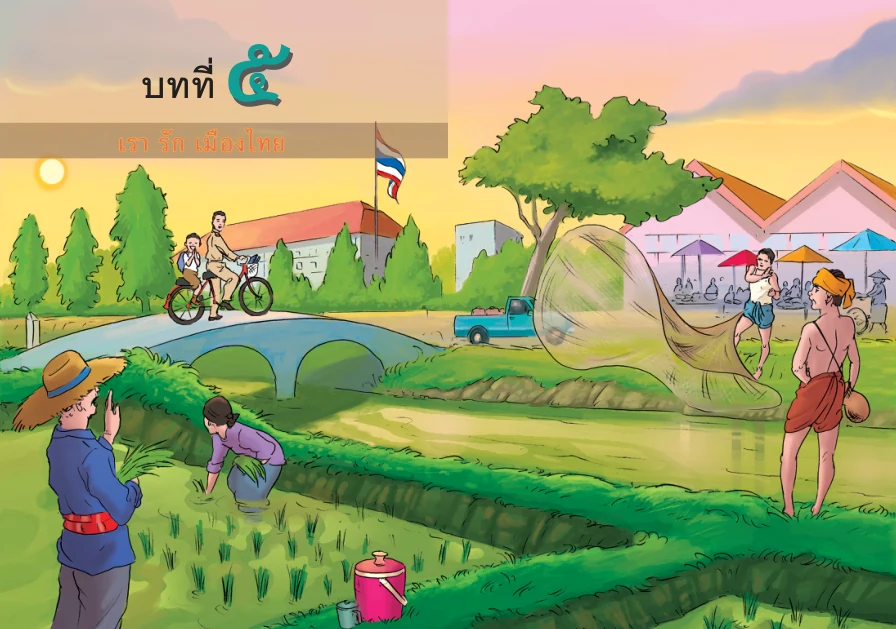
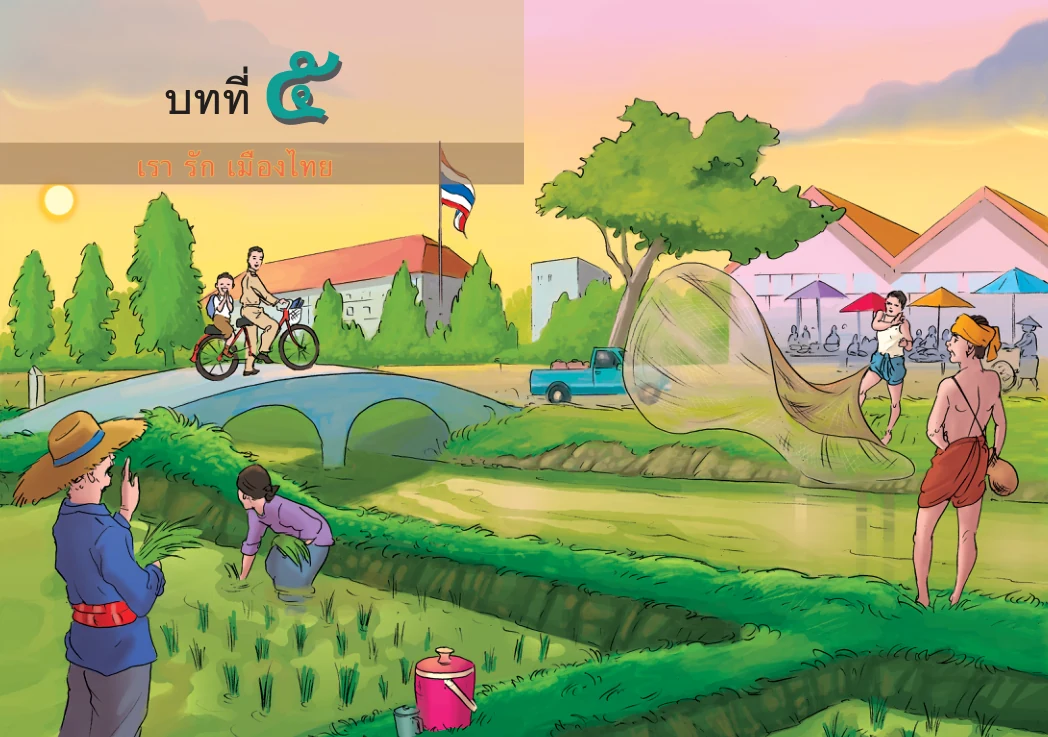
Add shared five-level reading speed and eliminate cover hairline gaps

diff --git a/P1/index.html b/P1/index.html
@@ -14,8 +14,8 @@
   <link rel="stylesheet" href="/is/P1/child-ui.css?v=20260924-1">
   <script src="/is/P1/child-ui.js?v=20260925-preparation-1" defer></script>
   <link rel="stylesheet" href="unit1-prototype.css?v=20260924-allchapters-1">
-  <link rel="stylesheet" href="literature/pairs.css?v=3">
-<script src="course-flow.js?v=20260925-flow-2"></script></head>
+  <link rel="stylesheet" href="literature/pairs.css?v=4">
+<script src="course-flow.js?v=20260925-flow-2"></script><link rel="stylesheet" href="reading-speed.css?v=1"><script src="reading-speed.js?v=1"></script></head>
 <body>
   <div id="preloadScreen" class="preload-screen preload-complete" role="status" aria-live="polite" aria-busy="false" hidden>
     <div class="preload-card"><div class="preload-logo" aria-hidden="true">ก</div><p class="preload-eyebrow">เพลินภาษา ป.1</p><h1>กำลังเตรียมบทเรียน</h1><p id="preloadStatus">กำลังตรวจสอบไฟล์สำหรับการเรียน...</p><div class="preload-track" aria-hidden="true"><span id="preloadBar"></span></div><strong id="preloadPercent">0%</strong><button id="retryPreload" type="button" hidden>ลองโหลดอีกครั้ง</button></div>
@@ -56,14 +56,14 @@
         <article class="unit-card featured" style="--accent:#58a6d8"><div class="unit-number">01</div><a class="unit-cover" href="lesson.html?unit=1" aria-label="เปิดบท ใบโบก ใบบัว"><img src="book/unit1-cover.webp" alt="ภาพปกคู่บทที่ 1 ใบโบก ใบบัว" loading="lazy"></a><div class="unit-content"><span class="unit-status ready">พร้อมใช้งาน</span><h3>ใบโบก ใบบัว</h3><p>ปูพื้นพยัญชนะไทย บัตรคำ ฟังเรื่อง จับคู่คำกับภาพ และเกมตรวจความเข้าใจ</p><div class="lesson-row"><span>แผนที่ 1</span><strong>รู้จักคำ นำเรื่อง</strong><div class="lesson-actions"><a href="lesson.html?unit=1">เข้าเรียน →</a></div></div></div><div class="workbook-pair"><a href="workbook/?unit=1"><img src="workbook/assets/volume-1.webp" alt="ปกแบบฝึกเล่ม 1" loading="lazy"><span>แบบฝึกเล่ม 1 · บทที่ 1</span></a></div></article>
         <article class="unit-card featured" style="--accent:#6854d9"><div class="unit-number">02</div><a class="unit-cover" href="lesson.html?unit=2" aria-label="เปิดบท ภูผา"><img src="book/unit2-cover.webp" alt="ภาพปกคู่บทที่ 2 ภูผา" loading="lazy"></a><div class="unit-content"><span class="unit-status ready">พร้อมใช้งาน</span><h3>ภูผา</h3><p>รู้จักคำ นำเรื่อง ผ่านเพลง เกมทายภาพ บิงโก และขบวนรถไฟประโยค</p><div class="lesson-row"><span>แผนที่ 1</span><strong>รู้จักคำ นำเรื่อง</strong><div class="lesson-actions"><a class="plan-link" href="plan/02/แผนที่1.docx" download>📄 แผนการสอน</a><a href="lesson.html?unit=2">เข้าเรียน →</a></div></div></div><div class="workbook-pair"><a href="workbook/?unit=2"><img src="workbook/assets/volume-1.webp" alt="ปกแบบฝึกเล่ม 1" loading="lazy"><span>แบบฝึกเล่ม 1 · บทที่ 2</span></a></div></article>
         <article class="unit-card ready-card" style="--accent:#ed8d70"><div class="unit-number">03</div><a class="unit-cover" href="lesson.html?unit=3" aria-label="เปิดบท เพื่อนกัน"><img src="book/unit3-cover.webp" alt="ภาพปกคู่บทที่ 3 เพื่อนกัน" loading="lazy"></a><div class="unit-content"><span class="unit-status ready">พร้อมใช้งาน</span><h3>เพื่อนกัน</h3><p>คำจากบท: ไก่ ลูกช้าง ชู จ้อง ร้อง เรียก เพื่อน เด็ก และฝึกสระ เอ–แอ</p><div class="lesson-row"><span>แผนที่ 1</span><strong>รู้จักคำ นำเรื่อง</strong><div class="lesson-actions"><a href="lesson.html?unit=3">เข้าเรียน →</a></div></div></div><div class="workbook-pair"><a href="workbook/?unit=3"><img src="workbook/assets/volume-1.webp" alt="ปกแบบฝึกเล่ม 1" loading="lazy"><span>แบบฝึกเล่ม 1 · บทที่ 3</span></a></div></article>
-        <article class="unit-card ready-card" style="--accent:#36a489"><div class="unit-number">04</div><a class="unit-cover" href="lesson.html?unit=4" aria-label="เปิดบท ตามหา"><img src="book/unit4-cover.webp" alt="ภาพปกคู่บทที่ 4 ตามหา" loading="lazy"></a><div class="unit-content"><span class="unit-status ready">พร้อมใช้งาน</span><h3>ตามหา</h3><p>คำจากบท: คอ ผูก ลาน อ้อย เล่นน้ำ ลำธาร กระดิ่ง กระพรวน และฝึกสระ โอ–ไอ–ใอ</p><div class="lesson-row"><span>แผนที่ 1</span><strong>รู้จักคำ นำเรื่อง</strong><div class="lesson-actions"><a href="lesson.html?unit=4">เข้าเรียน →</a></div></div></div><div class="literature-pair"><a href="literature/?chapter=1"><img src="literature/assets/cover-1.webp?v=2" alt="ปกคู่บทวรรณคดีลำนำ" loading="lazy">📖 วรรณคดีลำนำ 1 · เจ้าเนื้ออ่อน เอย</a></div><div class="workbook-pair"><a href="workbook/?unit=4"><img src="workbook/assets/volume-1.webp" alt="ปกแบบฝึกเล่ม 1" loading="lazy"><span>แบบฝึกเล่ม 1 · บทที่ 4</span></a></div></article>
-        <article class="unit-card ready-card" style="--accent:#e4aa32"><div class="unit-number">05</div><a class="unit-cover" href="lesson.html?unit=5" aria-label="เปิดบท ไปโรงเรียน"><img src="book/unit5-cover.webp" alt="ภาพปกคู่บทที่ 5 ไปโรงเรียน" loading="lazy"></a><div class="unit-content"><span class="unit-status ready">พร้อมใช้งาน</span><h3>ไปโรงเรียน</h3><p>คำจากบท: เข้า หิ้ว เรียน ปิ่นโต กระเป๋า โรงเรียน หนังสือ โบกมือ และฝึกสระ อือ</p><div class="lesson-row"><span>แผนที่ 1</span><strong>รู้จักคำ นำเรื่อง</strong><div class="lesson-actions"><a href="lesson.html?unit=5">เข้าเรียน →</a></div></div></div><div class="literature-pair"><a href="literature/?chapter=2"><img src="literature/assets/cover-2.webp?v=2" alt="ปกคู่บทวรรณคดีลำนำ" loading="lazy">📖 วรรณคดีลำนำ 2 · มา เล่น กัน ไหม</a></div><div class="workbook-pair"><a href="workbook/?unit=5"><img src="workbook/assets/volume-1.webp" alt="ปกแบบฝึกเล่ม 1" loading="lazy"><span>แบบฝึกเล่ม 1 · บทที่ 5</span></a></div></article>
-        <article class="unit-card ready-card" style="--accent:#4b9ed8"><div class="unit-number">06</div><a class="unit-cover" href="lesson.html?unit=6" aria-label="เปิดบท โรงเรียนลูกช้าง"><img src="book/unit6-cover.webp" alt="ภาพปกคู่บทที่ 6 โรงเรียนลูกช้าง" loading="lazy"></a><div class="unit-content"><span class="unit-status ready">พร้อมใช้งาน</span><h3>โรงเรียนลูกช้าง</h3><p>คำจากบท: แถว เชือก กล้วย หมู่บ้าน ควาญช้าง วงกลม และฝึกสระ เอีย–อัว</p><div class="lesson-row"><span>แผนที่ 1</span><strong>รู้จักคำ นำเรื่อง</strong><div class="lesson-actions"><a href="lesson.html?unit=6">เข้าเรียน →</a></div></div></div><div class="literature-pair"><a href="literature/?chapter=3"><img src="literature/assets/cover-3.webp?v=2" alt="ปกคู่บทวรรณคดีลำนำ" loading="lazy">📖 วรรณคดีลำนำ 3 · ของ เธอ ของ ฉัน</a></div><div class="workbook-pair"><a href="workbook/?unit=6"><img src="workbook/assets/volume-1.webp" alt="ปกแบบฝึกเล่ม 1" loading="lazy"><span>แบบฝึกเล่ม 1 · บทที่ 6</span></a></div></article>
-        <article class="unit-card ready-card" style="--accent:#e96d93"><div class="unit-number">07</div><a class="unit-cover seamless-cover" href="lesson.html?unit=7" aria-label="เปิดบท เพื่อนรัก เพื่อนเล่น"><span class="cover-half"><img src="book/unit7-cover.webp" alt="ภาพปกคู่บทที่ 7 เพื่อนรัก เพื่อนเล่น" loading="lazy"></span><span class="cover-half cover-right" aria-hidden="true"><img src="book/unit7-cover.webp" alt="" loading="lazy"></span></a><div class="unit-content"><span class="unit-status ready">พร้อมใช้งาน</span><h3>เพื่อนรัก เพื่อนเล่น</h3><p>รู้จักคำ ฝึกอ่านคาราโอเกะ อ่านคล่องร้องเล่น และเกมทบทวน</p><div class="lesson-row"><span>บทที่ 7</span><strong>ภาพและบทอ่านจากต้นฉบับ</strong><div class="lesson-actions"><a href="lesson.html?unit=7">เข้าเรียน →</a></div></div></div><div class="literature-pair"><a href="literature/?chapter=4"><img src="literature/assets/cover-4.webp?v=2" alt="ปกคู่บทวรรณคดีลำนำ" loading="lazy">📖 วรรณคดีลำนำ 4 · ฝน ตก แดด ออก</a></div><div class="workbook-pair"><a href="workbook/?unit=7"><img src="workbook/assets/volume-2.webp" alt="ปกแบบฝึกเล่ม 2" loading="lazy"><span>แบบฝึกเล่ม 2 · บทที่ 7</span></a></div></article>
-        <article class="unit-card ready-card" style="--accent:#9471d4"><div class="unit-number">08</div><a class="unit-cover seamless-cover" href="lesson.html?unit=8" aria-label="เปิดบท พูดเพราะ"><span class="cover-half"><img src="book/unit8-cover.webp" alt="ภาพปกคู่บทที่ 8 พูดเพราะ" loading="lazy"></span><span class="cover-half cover-right" aria-hidden="true"><img src="book/unit8-cover.webp" alt="" loading="lazy"></span></a><div class="unit-content"><span class="unit-status ready">พร้อมใช้งาน</span><h3>พูดเพราะ</h3><p>รู้จักคำ ฝึกอ่านคาราโอเกะ อ่านคล่องร้องเล่น และเกมทบทวน</p><div class="lesson-row"><span>บทที่ 8</span><strong>ภาพและบทอ่านจากต้นฉบับ</strong><div class="lesson-actions"><a href="lesson.html?unit=8">เข้าเรียน →</a></div></div></div><div class="literature-pair"><a href="literature/?chapter=5"><img src="literature/assets/cover-5.webp?v=2" alt="ปกคู่บทวรรณคดีลำนำ" loading="lazy">📖 วรรณคดีลำนำ 5 · เรา รัก เมืองไทย</a></div><div class="workbook-pair"><a href="workbook/?unit=8"><img src="workbook/assets/volume-2.webp" alt="ปกแบบฝึกเล่ม 2" loading="lazy"><span>แบบฝึกเล่ม 2 · บทที่ 8</span></a></div></article>
-        <article class="unit-card ready-card" style="--accent:#43aa72"><div class="unit-number">09</div><a class="unit-cover seamless-cover" href="lesson.html?unit=9" aria-label="เปิดบท เกือบไป"><span class="cover-half"><img src="book/unit9-cover.webp" alt="ภาพปกคู่บทที่ 9 เกือบไป" loading="lazy"></span><span class="cover-half cover-right" aria-hidden="true"><img src="book/unit9-cover.webp" alt="" loading="lazy"></span></a><div class="unit-content"><span class="unit-status ready">พร้อมใช้งาน</span><h3>เกือบไป</h3><p>รู้จักคำ ฝึกอ่านคาราโอเกะ อ่านคล่องร้องเล่น และเกมทบทวน</p><div class="lesson-row"><span>บทที่ 9</span><strong>ภาพและบทอ่านจากต้นฉบับ</strong><div class="lesson-actions"><a href="lesson.html?unit=9">เข้าเรียน →</a></div></div></div><div class="literature-pair"><a href="literature/?chapter=6"><img src="literature/assets/cover-6.webp?v=2" alt="ปกคู่บทวรรณคดีลำนำ" loading="lazy">📖 วรรณคดีลำนำ 6 · ตั้งไข่ ล้ม ต้ม ไข่ กิน</a></div><div class="workbook-pair"><a href="workbook/?unit=9"><img src="workbook/assets/volume-2.webp" alt="ปกแบบฝึกเล่ม 2" loading="lazy"><span>แบบฝึกเล่ม 2 · บทที่ 9</span></a></div></article>
-        <article class="unit-card ready-card" style="--accent:#df7b5e"><div class="unit-number">10</div><a class="unit-cover seamless-cover" href="lesson.html?unit=10" aria-label="เปิดบท เพื่อนรู้ใจ"><span class="cover-half"><img src="book/unit10-cover.webp" alt="ภาพปกคู่บทที่ 10 เพื่อนรู้ใจ" loading="lazy"></span><span class="cover-half cover-right" aria-hidden="true"><img src="book/unit10-cover.webp" alt="" loading="lazy"></span></a><div class="unit-content"><span class="unit-status ready">พร้อมใช้งาน</span><h3>เพื่อนรู้ใจ</h3><p>รู้จักคำ ฝึกอ่านคาราโอเกะ อ่านคล่องร้องเล่น และเกมทบทวน</p><div class="lesson-row"><span>บทที่ 10</span><strong>ภาพและบทอ่านจากต้นฉบับ</strong><div class="lesson-actions"><a href="lesson.html?unit=10">เข้าเรียน →</a></div></div></div><div class="literature-pair"><a href="literature/?chapter=7"><img src="literature/assets/cover-7.webp?v=2" alt="ปกคู่บทวรรณคดีลำนำ" loading="lazy">📖 วรรณคดีลำนำ 7 · แมว เหมียว</a></div><div class="workbook-pair"><a href="workbook/?unit=10"><img src="workbook/assets/volume-2.webp" alt="ปกแบบฝึกเล่ม 2" loading="lazy"><span>แบบฝึกเล่ม 2 · บทที่ 10</span></a></div></article>
-        <article class="unit-card ready-card" style="--accent:#5f9bc6"><div class="unit-number">11</div><a class="unit-cover seamless-cover" href="lesson.html?unit=11" aria-label="เปิดบท ช้างน้อยน่ารัก"><span class="cover-half"><img src="book/unit11-cover.webp" alt="ภาพปกคู่บทที่ 11 ช้างน้อยน่ารัก" loading="lazy"></span><span class="cover-half cover-right" aria-hidden="true"><img src="book/unit11-cover.webp" alt="" loading="lazy"></span></a><div class="unit-content"><span class="unit-status ready">พร้อมใช้งาน</span><h3>ช้างน้อยน่ารัก</h3><p>รู้จักคำ ฝึกอ่านคาราโอเกะ อ่านคล่องร้องเล่น และเกมทบทวน</p><div class="lesson-row"><span>บทที่ 11</span><strong>ภาพและบทอ่านจากต้นฉบับ</strong><div class="lesson-actions"><a href="lesson.html?unit=11">เข้าเรียน →</a></div></div></div><div class="literature-pair"><a href="literature/?chapter=8"><img src="literature/assets/cover-8.webp?v=2" alt="ปกคู่บทวรรณคดีลำนำ" loading="lazy">📖 วรรณคดีลำนำ 8 · กระต่าย กับ เต่า</a></div><div class="workbook-pair"><a href="workbook/?unit=11"><img src="workbook/assets/volume-2.webp" alt="ปกแบบฝึกเล่ม 2" loading="lazy"><span>แบบฝึกเล่ม 2 · บทที่ 11</span></a></div></article>
+        <article class="unit-card ready-card" style="--accent:#36a489"><div class="unit-number">04</div><a class="unit-cover" href="lesson.html?unit=4" aria-label="เปิดบท ตามหา"><img src="book/unit4-cover.webp" alt="ภาพปกคู่บทที่ 4 ตามหา" loading="lazy"></a><div class="unit-content"><span class="unit-status ready">พร้อมใช้งาน</span><h3>ตามหา</h3><p>คำจากบท: คอ ผูก ลาน อ้อย เล่นน้ำ ลำธาร กระดิ่ง กระพรวน และฝึกสระ โอ–ไอ–ใอ</p><div class="lesson-row"><span>แผนที่ 1</span><strong>รู้จักคำ นำเรื่อง</strong><div class="lesson-actions"><a href="lesson.html?unit=4">เข้าเรียน →</a></div></div></div><div class="literature-pair"><a href="literature/?chapter=1"><img src="literature/assets/cover-1.webp?v=3" alt="ปกคู่บทวรรณคดีลำนำ" loading="lazy">📖 วรรณคดีลำนำ 1 · เจ้าเนื้ออ่อน เอย</a></div><div class="workbook-pair"><a href="workbook/?unit=4"><img src="workbook/assets/volume-1.webp" alt="ปกแบบฝึกเล่ม 1" loading="lazy"><span>แบบฝึกเล่ม 1 · บทที่ 4</span></a></div></article>
+        <article class="unit-card ready-card" style="--accent:#e4aa32"><div class="unit-number">05</div><a class="unit-cover" href="lesson.html?unit=5" aria-label="เปิดบท ไปโรงเรียน"><img src="book/unit5-cover.webp" alt="ภาพปกคู่บทที่ 5 ไปโรงเรียน" loading="lazy"></a><div class="unit-content"><span class="unit-status ready">พร้อมใช้งาน</span><h3>ไปโรงเรียน</h3><p>คำจากบท: เข้า หิ้ว เรียน ปิ่นโต กระเป๋า โรงเรียน หนังสือ โบกมือ และฝึกสระ อือ</p><div class="lesson-row"><span>แผนที่ 1</span><strong>รู้จักคำ นำเรื่อง</strong><div class="lesson-actions"><a href="lesson.html?unit=5">เข้าเรียน →</a></div></div></div><div class="literature-pair"><a href="literature/?chapter=2"><img src="literature/assets/cover-2.webp?v=3" alt="ปกคู่บทวรรณคดีลำนำ" loading="lazy">📖 วรรณคดีลำนำ 2 · มา เล่น กัน ไหม</a></div><div class="workbook-pair"><a href="workbook/?unit=5"><img src="workbook/assets/volume-1.webp" alt="ปกแบบฝึกเล่ม 1" loading="lazy"><span>แบบฝึกเล่ม 1 · บทที่ 5</span></a></div></article>
+        <article class="unit-card ready-card" style="--accent:#4b9ed8"><div class="unit-number">06</div><a class="unit-cover" href="lesson.html?unit=6" aria-label="เปิดบท โรงเรียนลูกช้าง"><img src="book/unit6-cover.webp" alt="ภาพปกคู่บทที่ 6 โรงเรียนลูกช้าง" loading="lazy"></a><div class="unit-content"><span class="unit-status ready">พร้อมใช้งาน</span><h3>โรงเรียนลูกช้าง</h3><p>คำจากบท: แถว เชือก กล้วย หมู่บ้าน ควาญช้าง วงกลม และฝึกสระ เอีย–อัว</p><div class="lesson-row"><span>แผนที่ 1</span><strong>รู้จักคำ นำเรื่อง</strong><div class="lesson-actions"><a href="lesson.html?unit=6">เข้าเรียน →</a></div></div></div><div class="literature-pair"><a href="literature/?chapter=3"><img src="literature/assets/cover-3.webp?v=3" alt="ปกคู่บทวรรณคดีลำนำ" loading="lazy">📖 วรรณคดีลำนำ 3 · ของ เธอ ของ ฉัน</a></div><div class="workbook-pair"><a href="workbook/?unit=6"><img src="workbook/assets/volume-1.webp" alt="ปกแบบฝึกเล่ม 1" loading="lazy"><span>แบบฝึกเล่ม 1 · บทที่ 6</span></a></div></article>
+        <article class="unit-card ready-card" style="--accent:#e96d93"><div class="unit-number">07</div><a class="unit-cover seamless-cover" href="lesson.html?unit=7" aria-label="เปิดบท เพื่อนรัก เพื่อนเล่น"><span class="cover-half"><img src="book/unit7-cover.webp" alt="ภาพปกคู่บทที่ 7 เพื่อนรัก เพื่อนเล่น" loading="lazy"></span><span class="cover-half cover-right" aria-hidden="true"><img src="book/unit7-cover.webp" alt="" loading="lazy"></span></a><div class="unit-content"><span class="unit-status ready">พร้อมใช้งาน</span><h3>เพื่อนรัก เพื่อนเล่น</h3><p>รู้จักคำ ฝึกอ่านคาราโอเกะ อ่านคล่องร้องเล่น และเกมทบทวน</p><div class="lesson-row"><span>บทที่ 7</span><strong>ภาพและบทอ่านจากต้นฉบับ</strong><div class="lesson-actions"><a href="lesson.html?unit=7">เข้าเรียน →</a></div></div></div><div class="literature-pair"><a href="literature/?chapter=4"><img src="literature/assets/cover-4.webp?v=3" alt="ปกคู่บทวรรณคดีลำนำ" loading="lazy">📖 วรรณคดีลำนำ 4 · ฝน ตก แดด ออก</a></div><div class="workbook-pair"><a href="workbook/?unit=7"><img src="workbook/assets/volume-2.webp" alt="ปกแบบฝึกเล่ม 2" loading="lazy"><span>แบบฝึกเล่ม 2 · บทที่ 7</span></a></div></article>
+        <article class="unit-card ready-card" style="--accent:#9471d4"><div class="unit-number">08</div><a class="unit-cover seamless-cover" href="lesson.html?unit=8" aria-label="เปิดบท พูดเพราะ"><span class="cover-half"><img src="book/unit8-cover.webp" alt="ภาพปกคู่บทที่ 8 พูดเพราะ" loading="lazy"></span><span class="cover-half cover-right" aria-hidden="true"><img src="book/unit8-cover.webp" alt="" loading="lazy"></span></a><div class="unit-content"><span class="unit-status ready">พร้อมใช้งาน</span><h3>พูดเพราะ</h3><p>รู้จักคำ ฝึกอ่านคาราโอเกะ อ่านคล่องร้องเล่น และเกมทบทวน</p><div class="lesson-row"><span>บทที่ 8</span><strong>ภาพและบทอ่านจากต้นฉบับ</strong><div class="lesson-actions"><a href="lesson.html?unit=8">เข้าเรียน →</a></div></div></div><div class="literature-pair"><a href="literature/?chapter=5"><img src="literature/assets/cover-5.webp?v=3" alt="ปกคู่บทวรรณคดีลำนำ" loading="lazy">📖 วรรณคดีลำนำ 5 · เรา รัก เมืองไทย</a></div><div class="workbook-pair"><a href="workbook/?unit=8"><img src="workbook/assets/volume-2.webp" alt="ปกแบบฝึกเล่ม 2" loading="lazy"><span>แบบฝึกเล่ม 2 · บทที่ 8</span></a></div></article>
+        <article class="unit-card ready-card" style="--accent:#43aa72"><div class="unit-number">09</div><a class="unit-cover seamless-cover" href="lesson.html?unit=9" aria-label="เปิดบท เกือบไป"><span class="cover-half"><img src="book/unit9-cover.webp" alt="ภาพปกคู่บทที่ 9 เกือบไป" loading="lazy"></span><span class="cover-half cover-right" aria-hidden="true"><img src="book/unit9-cover.webp" alt="" loading="lazy"></span></a><div class="unit-content"><span class="unit-status ready">พร้อมใช้งาน</span><h3>เกือบไป</h3><p>รู้จักคำ ฝึกอ่านคาราโอเกะ อ่านคล่องร้องเล่น และเกมทบทวน</p><div class="lesson-row"><span>บทที่ 9</span><strong>ภาพและบทอ่านจากต้นฉบับ</strong><div class="lesson-actions"><a href="lesson.html?unit=9">เข้าเรียน →</a></div></div></div><div class="literature-pair"><a href="literature/?chapter=6"><img src="literature/assets/cover-6.webp?v=3" alt="ปกคู่บทวรรณคดีลำนำ" loading="lazy">📖 วรรณคดีลำนำ 6 · ตั้งไข่ ล้ม ต้ม ไข่ กิน</a></div><div class="workbook-pair"><a href="workbook/?unit=9"><img src="workbook/assets/volume-2.webp" alt="ปกแบบฝึกเล่ม 2" loading="lazy"><span>แบบฝึกเล่ม 2 · บทที่ 9</span></a></div></article>
+        <article class="unit-card ready-card" style="--accent:#df7b5e"><div class="unit-number">10</div><a class="unit-cover seamless-cover" href="lesson.html?unit=10" aria-label="เปิดบท เพื่อนรู้ใจ"><span class="cover-half"><img src="book/unit10-cover.webp" alt="ภาพปกคู่บทที่ 10 เพื่อนรู้ใจ" loading="lazy"></span><span class="cover-half cover-right" aria-hidden="true"><img src="book/unit10-cover.webp" alt="" loading="lazy"></span></a><div class="unit-content"><span class="unit-status ready">พร้อมใช้งาน</span><h3>เพื่อนรู้ใจ</h3><p>รู้จักคำ ฝึกอ่านคาราโอเกะ อ่านคล่องร้องเล่น และเกมทบทวน</p><div class="lesson-row"><span>บทที่ 10</span><strong>ภาพและบทอ่านจากต้นฉบับ</strong><div class="lesson-actions"><a href="lesson.html?unit=10">เข้าเรียน →</a></div></div></div><div class="literature-pair"><a href="literature/?chapter=7"><img src="literature/assets/cover-7.webp?v=3" alt="ปกคู่บทวรรณคดีลำนำ" loading="lazy">📖 วรรณคดีลำนำ 7 · แมว เหมียว</a></div><div class="workbook-pair"><a href="workbook/?unit=10"><img src="workbook/assets/volume-2.webp" alt="ปกแบบฝึกเล่ม 2" loading="lazy"><span>แบบฝึกเล่ม 2 · บทที่ 10</span></a></div></article>
+        <article class="unit-card ready-card" style="--accent:#5f9bc6"><div class="unit-number">11</div><a class="unit-cover seamless-cover" href="lesson.html?unit=11" aria-label="เปิดบท ช้างน้อยน่ารัก"><span class="cover-half"><img src="book/unit11-cover.webp" alt="ภาพปกคู่บทที่ 11 ช้างน้อยน่ารัก" loading="lazy"></span><span class="cover-half cover-right" aria-hidden="true"><img src="book/unit11-cover.webp" alt="" loading="lazy"></span></a><div class="unit-content"><span class="unit-status ready">พร้อมใช้งาน</span><h3>ช้างน้อยน่ารัก</h3><p>รู้จักคำ ฝึกอ่านคาราโอเกะ อ่านคล่องร้องเล่น และเกมทบทวน</p><div class="lesson-row"><span>บทที่ 11</span><strong>ภาพและบทอ่านจากต้นฉบับ</strong><div class="lesson-actions"><a href="lesson.html?unit=11">เข้าเรียน →</a></div></div></div><div class="literature-pair"><a href="literature/?chapter=8"><img src="literature/assets/cover-8.webp?v=3" alt="ปกคู่บทวรรณคดีลำนำ" loading="lazy">📖 วรรณคดีลำนำ 8 · กระต่าย กับ เต่า</a></div><div class="workbook-pair"><a href="workbook/?unit=11"><img src="workbook/assets/volume-2.webp" alt="ปกแบบฝึกเล่ม 2" loading="lazy"><span>แบบฝึกเล่ม 2 · บทที่ 11</span></a></div></article>
         <article class="unit-card ready-card" style="--accent:#ef9353"><div class="unit-number">12</div><a class="unit-cover seamless-cover" href="lesson.html?unit=12" aria-label="เปิดบท วันสงกรานต์"><span class="cover-half"><img src="book/unit12-cover.webp" alt="ภาพปกคู่บทที่ 12 วันสงกรานต์" loading="lazy"></span><span class="cover-half cover-right" aria-hidden="true"><img src="book/unit12-cover.webp" alt="" loading="lazy"></span></a><div class="unit-content"><span class="unit-status ready">พร้อมใช้งาน</span><h3>วันสงกรานต์</h3><p>รู้จักคำ ฝึกอ่านคาราโอเกะ อ่านคล่องร้องเล่น และเกมทบทวน</p><div class="lesson-row"><span>บทที่ 12</span><strong>ภาพและบทอ่านจากต้นฉบับ</strong><div class="lesson-actions"><a href="lesson.html?unit=12">เข้าเรียน →</a></div></div></div><div class="workbook-pair"><a href="workbook/?unit=12"><img src="workbook/assets/volume-2.webp" alt="ปกแบบฝึกเล่ม 2" loading="lazy"><span>แบบฝึกเล่ม 2 · บทที่ 12</span></a></div></article>
       </div>
     </section>

diff --git a/P1/literature/reader.js b/P1/literature/reader.js
@@ -11,7 +11,7 @@ function speak(items){
  function next(n){
   if(id!==readId)return;if(n>=items.length){stop();return}
   const item=items[n],u=new SpeechSynthesisUtterance(item.text.replaceAll('สระ','สะระ'));
-  u.lang='th-TH';u.rate=Number($('#speed').value);const voice=speechSynthesis.getVoices().find(v=>v.lang.toLowerCase().startsWith('th'));if(voice)u.voice=voice;
+  u.lang='th-TH';u.rate=window.P1ReadingSpeed?.get()??Number($('#speed').value);const voice=speechSynthesis.getVoices().find(v=>v.lang.toLowerCase().startsWith('th'));if(voice)u.voice=voice;
   item.node?.classList.add('speaking');u.onend=()=>{if(id!==readId)return;item.node?.classList.remove('speaking');timer=setTimeout(()=>next(n+1),item.lineEnd?300:120)};
   u.onerror=()=>{if(id!==readId)return;stop();$('#status').textContent='เสียงอ่านยังไม่พร้อม ลองแตะฟังอีกครั้ง'};speechSynthesis.speak(u);
  }next(0);
@@ -19,8 +19,8 @@ function speak(items){
 function readable(w){return /[ก-๛A-Za-z0-9]/.test(w.text)}
 async function render(){
  stop();const ticket=++renderId,isCover=index<2,source=chapter.pages[index];
- const top=chapter.id===7?49:52;
- const p=isCover?{...chapter.pages[0],width:1052,height:739,lines:chapter.pages.slice(0,2).flatMap((pg,i)=>pg.lines.map(l=>({...l,words:l.words.map(w=>({...w,box:w.box.map((v,k)=>v+(k%2===0?526*i-34:-top)),highlightBox:(w.highlightBox||w.box).map((v,k)=>v+(k%2===0?526*i-34:-top)),chars:w.chars.map(c=>[c[0],c[1]+526*i-34,c[2]-top,...c.slice(3)])}))})))}:source;words=[];
+ const top=chapter.id===7?50:53;
+ const p=isCover?{...chapter.pages[0],width:1047.5,height:737,lines:chapter.pages.slice(0,2).flatMap((pg,i)=>pg.lines.map(l=>({...l,words:l.words.map(w=>({...w,box:w.box.map((v,k)=>v+(k%2===0?523.5*i-35:-top)),highlightBox:(w.highlightBox||w.box).map((v,k)=>v+(k%2===0?523.5*i-35:-top)),chars:w.chars.map(c=>[c[0],c[1]+523.5*i-35,c[2]-top,...c.slice(3)])}))})))}:source;words=[];
  $('#paper').classList.toggle('cover-spread',isCover);
  const url=new URL(location.href);url.searchParams.set('chapter',chapter.id);url.searchParams.set('page',index+1);history.replaceState(null,'',url);
  $('#chapterTitle').textContent=`บทที่ ${th(chapter.id)} · ${chapter.title}`;document.title=chapter.title+' · วรรณคดีลำนำ ป.๑';
@@ -34,13 +34,13 @@ async function render(){
  if(plain){
   const wrap=document.createElement('div');wrap.className='plain';
   for(const line of p.lines.filter(l=>l.read)){const para=document.createElement('p');for(const w of line.words.filter(readable)){const b=document.createElement('button');b.textContent=w.text;const item={text:w.text,node:b};b.onclick=()=>speak([item]);words.push(item);para.append(b)}if(para.childElementCount){words[words.length-1].lineEnd=true;wrap.append(para)}}
-  if(!words.length){const img=document.createElement('img');img.src=isCover?`assets/cover-${chapter.id}.webp?v=2`:`assets/page-${p.pdfPage}.webp`;img.className='plain-cover';img.alt='ภาพประกอบ '+chapter.title;wrap.append(img);const title=document.createElement('h2');title.textContent=chapter.title;wrap.append(title)}
+  if(!words.length){const img=document.createElement('img');img.src=isCover?`assets/cover-${chapter.id}.webp?v=3`:`assets/page-${p.pdfPage}.webp`;img.className='plain-cover';img.alt='ภาพประกอบ '+chapter.title;wrap.append(img);const title=document.createElement('h2');title.textContent=chapter.title;wrap.append(title)}
   $('#pageContent').append(wrap);return;
  }
  const svg=el('svg',{viewBox:`0 0 ${p.width||595} ${p.height||842}`,class:'source-page','aria-label':chapter.title+' หน้าที่ '+(index+1)});svg.style.visibility='hidden';
  for(const [i,pg] of (isCover?chapter.pages.slice(0,2):[p]).entries()){
-  const attrs={href:`assets/page-${pg.pdfPage}.webp`,x:isCover?526*i-34:0,y:isCover?-top:0,width:595,height:842,'aria-hidden':'true'};
-  if(isCover){const clip=el('clipPath',{id:`coverClip${i}`});clip.append(el('rect',{x:526*i,y:0,width:526,height:739}));svg.append(clip);attrs['clip-path']=`url(#coverClip${i})`}
+  const attrs={href:`assets/page-${pg.pdfPage}.webp`,x:isCover?523.5*i-35:0,y:isCover?-top:0,width:595,height:842,'aria-hidden':'true'};
+  if(isCover){const clip=el('clipPath',{id:`coverClip${i}`});clip.append(el('rect',{x:523.5*i,y:0,width:524,height:737}));svg.append(clip);attrs['clip-path']=`url(#coverClip${i})`}
   svg.append(el('image',attrs));
  }
  const needed=new Map();
@@ -71,7 +71,7 @@ function pageSequence(){
  if(start<0||center.length!==2)return words;
  const sequence=words.slice(0,start);for(const name of ['ปู่','ย่า','ตา','ยาย','พ่อ','แม่','ครู','ลุง','ป้า','น้า','อา','พี่','น้อง','เพื่อน']){const item=words.find(w=>w.text===name);if(item)sequence.push(...center,item)}return sequence;
 }
-$('#read').onclick=()=>{if(reading){stop();return}speak(words.length?pageSequence():[{text:chapter.title}])};$('#speed').onchange=stop;
+$('#read').onclick=()=>{if(reading){stop();return}speak(words.length?pageSequence():[{text:chapter.title}])};document.addEventListener('p1-reading-speed-change',stop);
 $('#prev').onclick=()=>go(index===2?0:index-1);$('#next').onclick=()=>{if(index<chapter.pages.length-1)go(index===0?2:index+1);else{stop();P1Course.mark(chapter.pairedUnit,'literature');location.href=P1Course.route(chapter.pairedUnit,'workbook')}};
 $('#viewMode').onclick=()=>{plain=!plain;$('#viewMode').setAttribute('aria-pressed',String(plain));render()};
 $('#openMenu').onclick=()=>{stop();$('#menu').showModal()};$('#closeMenu').onclick=()=>$('#menu').close();

diff --git a/P1/lesson.js b/P1/lesson.js
@@ -32,6 +32,7 @@ function setBookMainButton(icon,label,disabled=false){const btn=$("#readPageKara
 function stopSpeech(){stopSongKaraoke(false);clearNativeHighlights();karaokeRun++;speechSeq++;window.speechSynthesis?.cancel?.();if(finishSpeech)finishSpeech();clearSpeechVisual();stage.querySelectorAll(".line-reading").forEach(el=>el.classList.remove("line-reading"));const song=currentSongConfig();setBookMainButton(song?"▶":"🔊",song?"เล่นเพลง":"อ่านหน้านี้",false)}
 function keepReadingVisible(target){if(![1,3].includes(step)||!target?.getBoundingClientRect)return;const r=target.getBoundingClientRect();if(r.top<165||r.bottom>window.innerHeight-32)target.scrollIntoView({block:"center",behavior:"smooth"})}
 const NORMAL_SPEECH_RATE=0.90;
+document.addEventListener('p1-reading-speed-change',()=>{if(!songAudio||songAudio.paused)stopSpeech()});
 function ttsSafeText(text){
  let out=String(text??"");
  out=out.replace(/ใบบัว/g,"ใบ\u200Bบัว");
@@ -39,7 +40,7 @@ function ttsSafeText(text){
  if(out==="ดอ"||out==="ดอ,")return "ดอร์";
  return out
 }
-function speak(text,target=null){if(!soundOn||!("speechSynthesis" in window)){clearSpeechVisual();return Promise.resolve()}const token=++speechSeq;if(window.speechSynthesis.speaking||window.speechSynthesis.pending)window.speechSynthesis.cancel();if(finishSpeech)finishSpeech();clearSpeechVisual();if(target){keepReadingVisible(target);speakingEl=target;target.classList.add("speaking-now")}return new Promise(resolve=>{const u=new SpeechSynthesisUtterance(ttsSafeText(text));u.lang="th-TH";u.rate=NORMAL_SPEECH_RATE;u.pitch=1.04;let settled=false;const done=()=>{if(settled)return;settled=true;if(token===speechSeq)clearSpeechVisual();if(finishSpeech===done)finishSpeech=null;resolve()};finishSpeech=done;u.onend=done;u.onerror=done;window.speechSynthesis.speak(u)})}
+function speak(text,target=null){if(!soundOn||!("speechSynthesis" in window)){clearSpeechVisual();return Promise.resolve()}const token=++speechSeq;if(window.speechSynthesis.speaking||window.speechSynthesis.pending)window.speechSynthesis.cancel();if(finishSpeech)finishSpeech();clearSpeechVisual();if(target){keepReadingVisible(target);speakingEl=target;target.classList.add("speaking-now")}return new Promise(resolve=>{const u=new SpeechSynthesisUtterance(ttsSafeText(text));u.lang="th-TH";u.rate=window.P1ReadingSpeed?.get()??NORMAL_SPEECH_RATE;u.pitch=1.04;let settled=false;const done=()=>{if(settled)return;settled=true;if(token===speechSeq)clearSpeechVisual();if(finishSpeech===done)finishSpeech=null;resolve()};finishSpeech=done;u.onend=done;u.onerror=done;window.speechSynthesis.speak(u)})}
 function speakQueued(items){
  const list=(items||[]).filter(x=>x&&x.text);
  if(!list.length||!soundOn||!("speechSynthesis" in window)){clearSpeechVisual();return Promise.resolve()}
@@ -57,7 +58,7 @@ function speakQueued(items){
    const item=list[index];
    activate(item);
    const u=new SpeechSynthesisUtterance(ttsSafeText(item.text));
-   u.lang="th-TH";u.rate=NORMAL_SPEECH_RATE;u.pitch=1.04;
+   u.lang="th-TH";u.rate=window.P1ReadingSpeed?.get()??NORMAL_SPEECH_RATE;u.pitch=1.04;
    u.onend=()=>play(index+1);
    u.onerror=()=>play(index+1);
    window.speechSynthesis.speak(u)

diff --git a/P1/literature/index.html b/P1/literature/index.html
@@ -1,4 +1,4 @@
-<!doctype html><html lang="th"><head><meta charset="utf-8"><meta name="viewport" content="width=device-width,initial-scale=1"><meta name="theme-color" content="#276b76"><title>วรรณคดีลำนำ · ภาษาไทย ป.๑</title><link rel="stylesheet" href="reader.css?v=2"><script src="reader.js?v=3" defer></script><script src="../course-flow.js?v=20260925-flow-2"></script></head><body>
+<!doctype html><html lang="th"><head><meta charset="utf-8"><meta name="viewport" content="width=device-width,initial-scale=1"><meta name="theme-color" content="#276b76"><title>วรรณคดีลำนำ · ภาษาไทย ป.๑</title><link rel="stylesheet" href="reader.css?v=2"><script src="reader.js?v=4" defer></script><script src="../course-flow.js?v=20260925-flow-2"></script><link rel="stylesheet" href="../reading-speed.css?v=1"><script src="../reading-speed.js?v=1"></script></head><body>
 <header><button id="openMenu" aria-label="เปิดเมนู">☰</button><h1 id="chapterTitle">วรรณคดีลำนำ</h1><button id="read" aria-label="ฟังหน้านี้">🔊</button></header>
 <main><div class="reader-tools"><a id="paired" href="../index.html">ภาษาพาทีบทคู่กัน</a><button id="viewMode" aria-pressed="false">ข้อความใหญ่</button><label>ความเร็ว <select id="speed"><option value="0.75">ช้า</option><option value="0.85" selected>ช้าพอดี</option><option value="1">ปกติ</option></select></label></div><p id="status" role="status">กำลังเปิดหนังสือ…</p><article id="paper" class="book-paper"><div id="pageContent"></div></article><p id="source"></p></main>
 <nav class="pager" aria-label="เปลี่ยนหน้า"><button id="prev" aria-label="หน้าก่อน">‹</button><span id="counter"></span><button id="next" aria-label="หน้าถัดไป">›</button></nav>

diff --git a/P1/reading-speed.js b/P1/reading-speed.js
@@ -1,0 +1,18 @@
+/* One persisted reading speed for all P1 readers and recorded songs. */
+(() => {
+'use strict';
+const choices=[['0.65','ช้า'],['0.85','ช้าพอดี'],['1','ปกติ'],['1.2','เร็ว'],['1.45','เร็วมาก']],key='p1-reading-speed';
+let rate=.85;try{const saved=localStorage.getItem(key);if(choices.some(([v])=>v===saved))rate=Number(saved)}catch{}
+window.P1ReadingSpeed={get:()=>rate};
+function media(){document.querySelectorAll('audio').forEach(a=>{a.defaultPlaybackRate=rate;a.playbackRate=rate;a.preservesPitch=true})}
+function init(){
+ let select=document.querySelector('#speed');
+ if(!select){const label=document.createElement('label');label.className='p1-speed-control';label.textContent='ความเร็วอ่าน ';select=document.createElement('select');select.id='p1ReadingSpeed';label.append(select);(document.querySelector('main')||document.body).prepend(label)}
+ select.setAttribute('aria-label','ความเร็วอ่าน');select.replaceChildren();for(const [value,text] of choices){const o=document.createElement('option');o.value=value;o.textContent=text;select.append(o)}select.value=String(rate);
+ function update(value){if(!choices.some(([v])=>v===value))return;rate=Number(value);select.value=value;media();document.dispatchEvent(new CustomEvent('p1-reading-speed-change',{detail:rate}))}
+ select.addEventListener('change',()=>{update(select.value);try{localStorage.setItem(key,select.value)}catch{}});
+ window.addEventListener('storage',e=>{if(e.key===key)update(e.newValue)});
+ media();new MutationObserver(records=>{if(records.some(r=>[...r.addedNodes].some(n=>n.nodeType===1&&(n.matches('audio')||n.querySelector('audio')))))media()}).observe(document.body,{childList:true,subtree:true});
+}
+if(document.readyState==='loading')document.addEventListener('DOMContentLoaded',init,{once:true});else init();
+})();

diff --git a/P1/00-prerequisite/readiness.js b/P1/00-prerequisite/readiness.js
@@ -40,7 +40,7 @@ function speak(items){
   if(id!==readId)return;
   if(i>=items.length){stop();return}
   const {text,el}=items[i],u=new SpeechSynthesisUtterance(text);
-  u.lang='th-TH';u.rate=.85;const voice=speechSynthesis.getVoices().find(v=>v.lang.toLowerCase().startsWith('th'));if(voice)u.voice=voice;
+  u.lang='th-TH';u.rate=window.P1ReadingSpeed?.get()??.85;const voice=speechSynthesis.getVoices().find(v=>v.lang.toLowerCase().startsWith('th'));if(voice)u.voice=voice;
   el?.classList.add('speaking');
   u.onend=()=>{if(id!==readId)return;el?.classList.remove('speaking');timer=setTimeout(()=>next(i+1),220)};
   u.onerror=()=>{if(id!==readId)return;stop();$('#speechStatus').textContent='เสียงอ่านยังไม่พร้อม ลองแตะฟังอีกครั้ง'};
@@ -188,7 +188,7 @@ paper.addEventListener('pointerup',e=>{
 paper.addEventListener('pointercancel',()=>swipe=null);
 paper.addEventListener('click',e=>{if(Date.now()<suppressTapUntil){e.preventDefault();e.stopImmediatePropagation()}},true);
 document.addEventListener('keydown',e=>{if(document.querySelector('dialog[open]')||e.target.closest('input,select,textarea,button,a'))return;if(e.key==='ArrowRight'){e.preventDefault();go(page+1)}if(e.key==='ArrowLeft'){e.preventDefault();go(page-1)}});
-window.addEventListener('pagehide',stop);document.addEventListener('visibilitychange',()=>{if(document.hidden)stop()});
+document.addEventListener('p1-reading-speed-change',stop);window.addEventListener('pagehide',stop);document.addEventListener('visibilitychange',()=>{if(document.hidden)stop()});
 const initial=new URLSearchParams(location.search).get('page');page=Math.max(0,Math.min(pages.length-1,initial?Number(initial)-1:Number(safeGet('p1-readiness-single-page')||0)));if(!Number.isFinite(page))page=0;
 render();syncTraceContext();
 })();

diff --git a/P1/literature/pairs.css b/P1/literature/pairs.css
@@ -1,5 +1,5 @@
 .literature-pair{grid-column:1/-1;flex-basis:100%;width:100%;margin-top:10px}.literature-pair a{display:block;padding:10px 12px;line-height:1.5;font-size:.9rem;background:#eff8f4;border-radius:12px;color:#236777;text-decoration:none}.literature-pair a:hover{background:#d9efe5}.literature-pair a:focus-visible{outline:3px solid #b77200}
 
-.literature-pair a{display:flex!important;flex-direction:column;gap:8px}.literature-pair img{display:block;width:100%;height:auto;aspect-ratio:1052/739;object-fit:contain;border-radius:10px;background:white}.workbook-pair{padding:12px 20px 18px}.workbook-pair a{display:flex;gap:14px;align-items:center;text-decoration:none;color:#21695e;background:#ecf7ef;border:1px solid #cde5d3;border-radius:12px;padding:12px;font-weight:700}.workbook-pair img{width:64px;height:88px;object-fit:contain}.workbook-pair a:hover{background:#def0df}
+.literature-pair a{display:flex!important;flex-direction:column;gap:8px}.literature-pair img{display:block;width:100%;height:auto;aspect-ratio:1047.5/737;object-fit:contain;border-radius:10px;background:white}.workbook-pair{padding:12px 20px 18px}.workbook-pair a{display:flex;gap:14px;align-items:center;text-decoration:none;color:#21695e;background:#ecf7ef;border:1px solid #cde5d3;border-radius:12px;padding:12px;font-weight:700}.workbook-pair img{width:64px;height:88px;object-fit:contain}.workbook-pair a:hover{background:#def0df}
 
 .unit-card>.literature-pair{padding:0 20px;margin:8px 0 0}.unit-card>.literature-pair a{width:100%}

diff --git a/P1/workbook/index.html b/P1/workbook/index.html
@@ -1,4 +1,4 @@
-<!doctype html><html lang="th"><head><meta charset="utf-8"><meta name="viewport" content="width=device-width,initial-scale=1"><title>แบบฝึกทักษะภาษาไทย ป.๑</title><link rel="stylesheet" href="workbook.css?v=1"><script src="../course-flow.js?v=20260925-flow-2"></script><script src="workbook.js?v=1" defer></script></head><body>
+<!doctype html><html lang="th"><head><meta charset="utf-8"><meta name="viewport" content="width=device-width,initial-scale=1"><title>แบบฝึกทักษะภาษาไทย ป.๑</title><link rel="stylesheet" href="workbook.css?v=1"><script src="../course-flow.js?v=20260925-flow-2"></script><script src="workbook.js?v=1" defer></script><link rel="stylesheet" href="../reading-speed.css?v=1"><script src="../reading-speed.js?v=1"></script></head><body>
 <header><a href="../index.html" aria-label="กลับสารบัญ">⌂</a><h1 id="title">แบบฝึกทักษะภาษาไทย</h1><button id="openMenu" aria-label="เปิดเมนู">☰</button></header><main>
 <p id="progress" role="status"></p><div id="content"></div><p id="status" role="status"></p><p class="note" id="owner"></p>
 </main><nav class="pager"><button id="prev">‹ ก่อนหน้า</button><span id="counter"></span><button id="next">เริ่มกิจกรรม →</button></nav>

diff --git a/P1/lesson.html b/P1/lesson.html
@@ -14,7 +14,7 @@
   <link rel="stylesheet" href="/is/P1/child-ui.css?v=20260924-1">
   <script src="/is/P1/child-ui.js?v=20260924-1" defer></script>
   <link rel="stylesheet" href="unit1-prototype.css?v=20260924-symbol-phonics-7">
-<script src="course-flow.js?v=20260925-flow-2"></script></head>
+<script src="course-flow.js?v=20260925-flow-2"></script><link rel="stylesheet" href="reading-speed.css?v=1"><script src="reading-speed.js?v=1"></script></head>
 <body>
   <header class="topbar">
     <a class="brand" href="index.html"><span class="brand-mark">ก</span><span><strong>เพลินภาษา ป.1</strong><small>ภาษาพาที · หน่วย 1-12</small></span></a>
@@ -73,7 +73,7 @@
   <script src="song-karaoke-data.js?v=20260924-github-exact-1"></script>
   <script src="song-karaoke-cues.js?v=20260924-github-exact-1"></script>
   <script src="unit1-prototype.js?v=20260925-flow-2"></script>
-  <script src="lesson.js?v=20260925-flow-2"></script>
+  <script src="lesson.js?v=20260925-speed-1"></script>
 <script type="module" src="/is/P1/js/classroom.js?v=20260925-trace-2"></script>
 <script src="literature/paired-link.js?v=2" defer></script>
 </body>

diff --git a/P1/00-prerequisite/index.html b/P1/00-prerequisite/index.html
@@ -6,8 +6,8 @@
 <title>เตรียมความพร้อม | ภาษาไทย ป.๑</title>
 <link rel="stylesheet" href="readiness.css?v=20260925-trace-1">
 <script src="trace-score.js?v=20260925-score-2" defer></script>
-<script src="readiness.js?v=20260925-score-2" defer></script>
-</head>
+<script src="readiness.js?v=20260925-speed-1" defer></script>
+<link rel="stylesheet" href="../reading-speed.css?v=1"><script src="../reading-speed.js?v=1"></script></head>
 <body>
 <header class="topbar"><button id="openMenu" aria-label="เปิดเมนู" aria-expanded="false">☰</button><h1>เตรียมความพร้อม</h1><button id="readPage" aria-label="ฟังหน้านี้">🔊</button></header>
 <dialog id="menu"><div class="menu-head"><h2>เลือกหน้า</h2><button id="closeMenu" aria-label="ปิดเมนู">✕</button></div><div class="unit1-menu-list"><a href="../index.html">⌂ สารบัญบทเรียน</a><div id="pageLinks"></div><a href="../lesson.html?unit=1&amp;start=1">บทที่ ๑ · ใบโบก ใบบัว →</a></div></dialog>

diff --git a/P1/reading-speed.css b/P1/reading-speed.css
@@ -1,0 +1,1 @@
+.p1-speed-control{display:flex;justify-content:flex-end;align-items:center;gap:8px;padding:8px 4px;margin:0 0 8px;font:600 .9rem/1.5 Sarabun,Tahoma,sans-serif;color:#345951}.p1-speed-control select,#speed{font:inherit;min-height:44px;max-width:150px;padding:8px 30px 8px 12px;background:#fff;border:1px solid #bfd0c9;border-radius:12px;color:#234d43;touch-action:manipulation}.p1-speed-control select:focus-visible,#speed:focus-visible{outline:3px solid #bc810c;outline-offset:2px}

diff --git a/tools/build_workbook.py b/tools/build_workbook.py
@@ -31,7 +31,7 @@ lit=fitz.open(source/'วรรณคดีลำนำ.pdf')
 for c in json.loads((root/'literature/book.json').read_text())['chapters']:
  images=[]
  for pg in c['pages'][:2]:
-  pix=lit[pg['pdfPage']-1].get_pixmap(matrix=fitz.Matrix(.85,.85),clip=fitz.Rect(34,49 if c['id']==7 else 52,560,788 if c['id']==7 else 791),alpha=False)
+  pix=lit[pg['pdfPage']-1].get_pixmap(matrix=fitz.Matrix(1,1),clip=fitz.Rect(35,50 if c['id']==7 else 53,559,787 if c['id']==7 else 790),alpha=False)
   images.append(Image.frombytes('RGB',[pix.width,pix.height],pix.samples))
  spread=Image.new('RGB',(sum(i.width for i in images),max(i.height for i in images)), 'white');x=0
  for i in images:spread.paste(i,(x,0));x+=i.width
